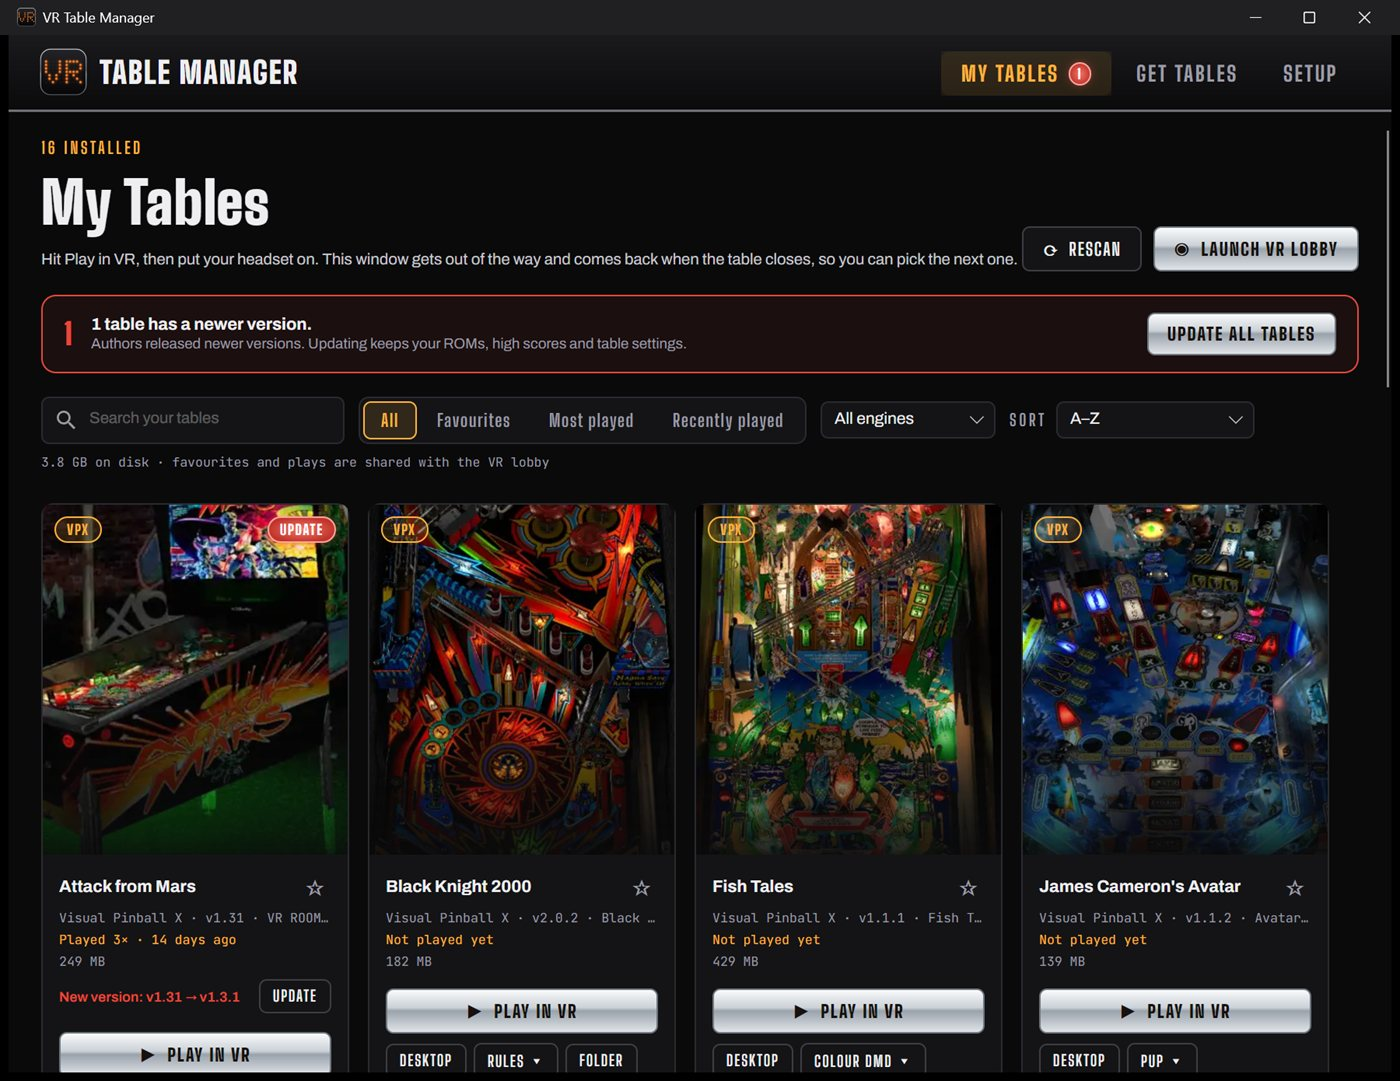
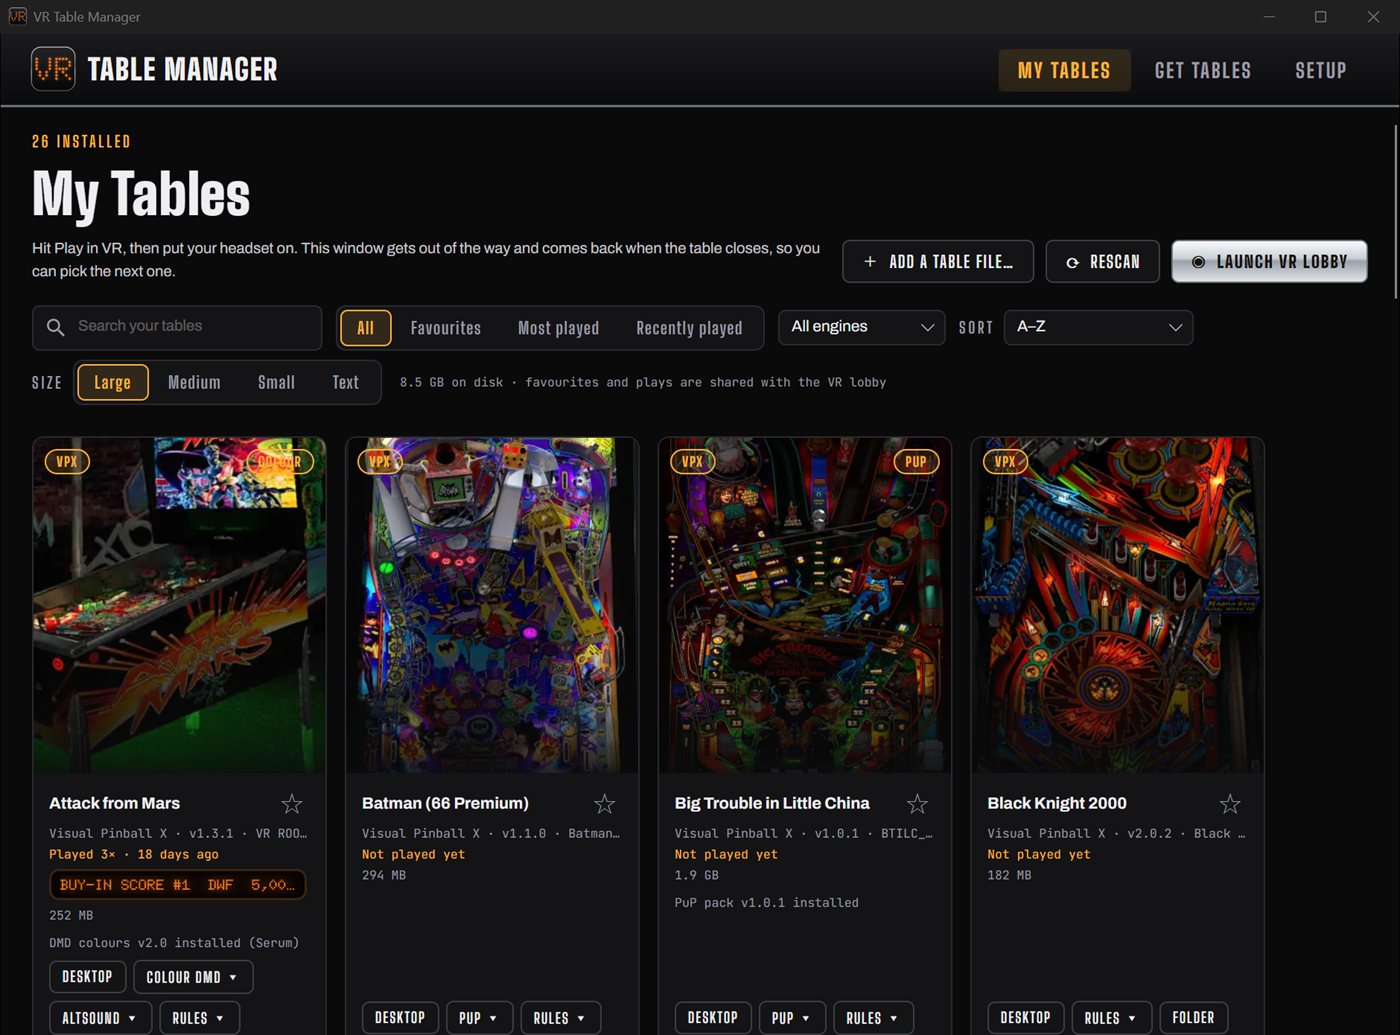
README: fresh screenshots of 0.4.0
My Tables with ADD A TABLE FILE… and the card size picker; a table card's PUP
menu, with PLAY and the ⋯ menu on every card; Get Tables; Medieval Madness's
versions; and Setup's Visual Pinball X section with the layered VPX settings
and the VR options. Scaled to 1400 px JPEG as before. The table-cards and Setup
captions say what the new pictures show.

diff --git a/README.md b/README.md
@@ -46,10 +46,10 @@ Add-ons are matched to the table's ROM, installed where VPX's plugins look, and 
 
 | | |
 |---|---|
-| ![Table cards with PUP, COLOUR DMD, ALTSOUND and RULES menus](docs/screenshots/table-cards.jpg) | ![Get Tables: the whole Virtual Pinball Spreadsheet catalog](docs/screenshots/get-tables.jpg) |
-| **Add-ons and rules** on every table card | **Get Tables:** 2,000+ tables, filtered to what works in VR |
-| ![A table's versions, authors and features, each with Install](docs/screenshots/table-versions.jpg) | ![Setup: updates, Visual Pinball X and VR settings](docs/screenshots/setup.jpg) |
-| **Every version** of a table, with one-click Install | **Setup and updates** in one place |
+| ![Table cards with PUP, COLOUR DMD, ALTSOUND and RULES menus, and the PUP menu open](docs/screenshots/table-cards.jpg) | ![Get Tables: the whole Virtual Pinball Spreadsheet catalog](docs/screenshots/get-tables.jpg) |
+| **Add-ons and rules** on every table card, with Play and a ⋯ menu | **Get Tables:** 2,000+ tables, filtered to what works in VR |
+| ![A table's versions, authors and features, each with Install](docs/screenshots/table-versions.jpg) | ![Setup: Visual Pinball X, its settings files and the VR options](docs/screenshots/setup.jpg) |
+| **Every version** of a table, with one-click Install | **Setup:** VPX, your own VPinballX.ini with VR and desktop overrides, and the VR options |
 
 | | |
 |---|---|
